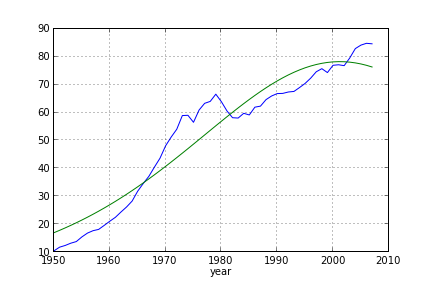
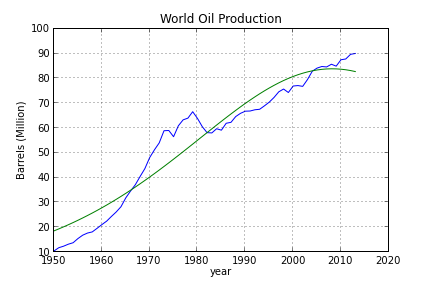
-

diff --git a/app-math-tr/peak/peak.tex b/app-math-tr/peak/peak.tex
@@ -10,7 +10,6 @@ $$
 \begin{minted}[fontsize=\footnotesize]{python}
 from scipy.optimize import fmin
 import pandas as pd
-from numpy.linalg import *
 df = pd.read_csv('oil1.csv',sep='\s')
 #df = df[df['year'] < 2008]
 
@@ -36,11 +35,9 @@ Optimization terminated successfully.
 \begin{minted}[fontsize=\footnotesize]{python}
 df2 = df.set_index('year')
 ax = df2['oil'].plot(title='World Oil Production')
-ax.set_ylabel("Million Barrels / Year")
+ax.set_ylabel("Barrels (Million)")
 plt.savefig('peak_01.png')
 \end{minted}
-
-
 
 
 \includegraphics[height=6cm]{peak_01.png}
@@ -63,12 +60,14 @@ print pred
 \end{minted}
 
 \begin{verbatim}
-[16.924388178067382, 17.760322280529234, 18.631227556616846, 19.537889196479689, 20.481032316015906, 21.461311283892353, 22.47929824754776, 23.535470864252485, 24.630199255472636, 25.763732216890215, 26.936182732546801, 28.147512859753753, 29.397518071646875, 30.685811166502461, 32.01180587704831, 33.374700338790234, 34.773460603531355, 36.206804412380087, 37.673185471103409, 39.170778499036672, 40.697465350140497, 42.250822530296425, 43.828110457535445, 45.426264830466863, 47.041890483498179, 48.671258114231854, 50.310304267392148, 51.954634949500878, 53.599533228099332, 55.239971137565227, 56.870626169685266, 58.48590257059648, 60.079957596361105, 61.64673279758766, 63.179990309965397, 64.673354023696504, 66.120355392533526, 67.514483524974992, 68.849239079214911, 70.11819136323507, 71.315037925924187, 72.433665818504394, 73.468213612139152, 74.413133181584215, 75.263250210019208, 76.013822340141232, 76.660593893877405, 77.199846109441864, 77.628441900639373, 77.943864228864243, 78.144247291531642, 78.22839986889646, 78.195820330468578, 78.046702977672183, 77.781935585442525, 77.403088196024541, 76.912393407052377, 76.312718576839288]
+[18.519947897246944, 19.314578111406714, 20.138017590457544, 20.990818356218071, 21.873493835070867, 22.786512989161988, 23.730294065627863, 24.705197966238885, 25.711521244217437, 26.749488739965617, 27.819245873049223, 28.920850614047456, 30.054265166797538, 31.219347399136325, 32.415842068444974, 33.643371897100387, 34.901428562271072, 36.189363674283257, 37.506379827920988, 38.851521821377311, 40.223668147980938, 41.621522876089223, 43.043608042442393, 44.488256693557283, 45.953606718119573, 47.437595620498556, 48.93795639112443, 50.452214633183004, 51.977687106537616, 53.511481848619326, 55.050500027886962, 56.591439678018837, 58.130801449970193, 59.664896504177811, 61.189856646347891, 62.701646787342689, 64.196079780704423, 65.668833660453231, 67.115471267231669, 68.531462213036434, 69.912207094218473, 71.253063819823694, 72.549375878505785, 73.796502323110687, 74.989849208656523, 76.124902177944563, 77.197259850616845, 78.202667637321611, 79.137051571929504, 79.996551732563404, 80.777554807551127, 81.476725356107835, 82.091035316239356, 82.617791324414171, 83.054659433116882, 83.399686843309581, 83.651320308649588, 83.808420916304343, 83.870275004363705, 83.836601036927561, 83.707552323482901, 83.483715537571612, 83.166105059272297, 82.756153234920987]
 \end{verbatim}
 
 \begin{minted}[fontsize=\footnotesize]{python}
 df2['pred'] = pred
-ax = df2['oil'].plot(); ax.hold(True)
+ax = df2['oil'].plot(title='World Oil Production')
+ax.set_ylabel("Barrels (Million)")
+ax.hold(True)
 ax = df2['pred'].plot()
 plt.savefig('peak_02.png')
 \end{minted}
